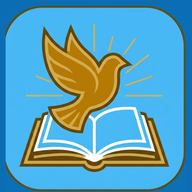
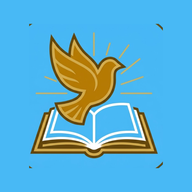
Icono final limpio; reproductor y navegacion fusionados en una sola barra (v19)

diff --git a/styles.css b/styles.css
@@ -398,7 +398,8 @@ body {
 /* ------------------------------ Tabbar -------------------------------- */
 .tabbar {
   position: fixed; left: 0; right: 0; bottom: 0; z-index: 40;
-  display: flex; background: var(--surface);
+  max-width: 760px; margin: 0 auto;
+  display: flex; align-items: center; background: var(--surface);
   border-top: 1px solid var(--line);
   padding-bottom: env(safe-area-inset-bottom);
 }
@@ -406,6 +407,7 @@ body {
   flex: 1; display: flex; flex-direction: column; align-items: center; gap: 3px;
   padding: 8px 4px 7px; color: var(--ink-faint); text-decoration: none;
   font-family: var(--sans); font-size: 0.68rem;
+  min-width: 0;
 }
 .tabbar .tab.active { color: var(--accent-ink); }
 .tabbar .tab.active::before {
@@ -413,6 +415,19 @@ body {
   background: var(--accent); border-radius: 0 0 3px 3px;
 }
 .tabbar .tab { position: relative; }
+
+/* Cuando el reproductor de autoscroll esta activo, comparte la misma fila:
+   las pestanas se comprimen a solo icono para dejarle sitio. */
+.tabbar:has(.autoscroll) .tab-label {
+  position: absolute; width: 1px; height: 1px; overflow: hidden; clip: rect(0 0 0 0);
+}
+.tabbar:has(.autoscroll) .tab { padding: 8px 2px 7px; }
+.tabbar .autoscroll {
+  flex: 0 0 auto;
+  display: flex; align-items: center; gap: 6px;
+  padding: 6px 0 6px 10px; margin-left: 4px;
+  border-left: 1px solid var(--line);
+}
 
 /* ---------------------------- Responsive ------------------------------ */
 @media (min-width: 760px) {
@@ -655,27 +670,18 @@ body {
 }
 .nci-ok:hover { filter: brightness(1.06); }
 
-/* Auto-scroll de lectura: ocupa el mismo sitio que la tabbar (una sola barra) */
-.autoscroll {
-  position: fixed; left: 0; right: 0; bottom: 0; z-index: 60;
-  padding-bottom: env(safe-area-inset-bottom);
-  max-width: 760px; margin: 0 auto;
-  display: flex; align-items: center; justify-content: space-between; gap: 10px;
-  padding: 8px 16px calc(8px + env(safe-area-inset-bottom));
-  background: var(--surface);
-  border-top: 1px solid var(--line);
-}
-body:has(.autoscroll) .tabbar { display: none; }
+/* Auto-scroll de lectura: vive dentro de la tabbar (ver regla .tabbar .autoscroll arriba) */
 .as-play {
-  width: 36px; height: 36px; border-radius: 50%; border: none; cursor: pointer;
-  background: var(--accent); color: var(--accent-ink); font-size: 0.85rem;
+  width: 30px; height: 30px; border-radius: 50%; border: none; cursor: pointer;
+  background: var(--accent); color: var(--accent-ink); font-size: 0.75rem;
   display: flex; align-items: center; justify-content: center;
   flex: none;
 }
-.as-speeds { display: flex; gap: 6px; flex: none; }
+.as-speeds { display: flex; gap: 4px; flex: none; }
 .as-chip {
-  padding: 6px 11px; border-radius: 999px; border: 1px solid var(--line);
-  background: var(--surface2); color: var(--ink); font-family: var(--sans); font-size: 0.75rem; cursor: pointer;
+  padding: 4px 8px; border-radius: 999px; border: 1px solid var(--line);
+  background: var(--surface2); color: var(--ink); font-family: var(--sans); font-size: 0.66rem; cursor: pointer;
+  white-space: nowrap;
 }
 .as-chip.active { background: var(--accent); border-color: var(--accent); color: var(--accent-ink); }
 

diff --git a/index.html b/index.html
@@ -122,25 +122,25 @@
 </main>
 
 <nav class="tabbar" id="tabbar" aria-label="Secciones">
-  <a href="#hoy" class="tab" data-tab="hoy">
+  <a href="#hoy" class="tab" data-tab="hoy" aria-label="Hoy">
     <svg viewBox="0 0 24 24" width="22" height="22"><path fill="currentColor" d="M6 2a2 2 0 0 0-2 2v16a2 2 0 0 0 2 2h12a2 2 0 0 0 2-2V8l-6-6H6zm7 1.5L18.5 9H13V3.5zM8 12h8v2H8v-2zm0 4h8v2H8v-2z"/></svg>
-    <span>Hoy</span>
+    <span class="tab-label">Hoy</span>
   </a>
-  <a href="#hora/visperas" class="tab" data-tab="visperas">
+  <a href="#hora/visperas" class="tab" data-tab="visperas" aria-label="Vísperas">
     <svg viewBox="0 0 24 24" width="22" height="22"><path fill="currentColor" d="M17.7 14.3A8 8 0 0 1 6.2 3.3a8 8 0 1 0 11.5 11z"/></svg>
-    <span>Vísperas</span>
+    <span class="tab-label">Vísperas</span>
   </a>
-  <a href="#biblia" class="tab" data-tab="biblia">
+  <a href="#biblia" class="tab" data-tab="biblia" aria-label="Biblia">
     <svg viewBox="0 0 24 24" width="22" height="22"><path fill="currentColor" d="M4 5a2 2 0 0 1 2-2h14v16H6a2 2 0 0 0-2 2V5zm4 4h8V7H8v2zm0 4h8v-2H8v2zm0 4h5v-2H8v2z"/></svg>
-    <span>Biblia</span>
+    <span class="tab-label">Biblia</span>
   </a>
-  <a href="#misal" class="tab" data-tab="lecturas">
+  <a href="#misal" class="tab" data-tab="lecturas" aria-label="Lecturas">
     <svg viewBox="0 0 24 24" width="22" height="22"><path fill="currentColor" d="M20 4h-4a4 4 0 0 0-4 4v12a3 3 0 0 0-3-3H4a2 2 0 0 1-2-2V6a2 2 0 0 1 2-2h16zM12 8a4 4 0 0 0-4-4H4v9h2V8a2 2 0 0 1 2-2h4V8zm6 6-2.5-1.5V20l3-1 3 1v-7.5L18 14z"/></svg>
-    <span>Lecturas</span>
+    <span class="tab-label">Lecturas</span>
   </a>
-  <a href="#acerca" class="tab" data-tab="acerca">
+  <a href="#acerca" class="tab" data-tab="acerca" aria-label="Info">
     <svg viewBox="0 0 24 24" width="22" height="22"><path fill="currentColor" d="M11 4h2v2h-2V4zm-1 16h2V8h-2v12zM12 2a10 10 0 1 0 0 20 10 10 0 0 0 0-20zm0 18a8 8 0 1 1 0-16 8 8 0 0 1 0 16z"/></svg>
-    <span>Info</span>
+    <span class="tab-label">Info</span>
   </a>
 </nav>
 

diff --git a/app.js b/app.js
@@ -59,6 +59,8 @@
   }
 
   async function route() {
+    const existingAs = document.querySelector('.autoscroll');
+    if (existingAs) existingAs.remove();
     const h = parseHash();
     if (h.startsWith('hora/')) return hourView(h.split('/')[1]);
     if (h.startsWith('biblia/libro/')) return bibliaBookView(h.split('/')[2]);
@@ -338,10 +340,10 @@
 
   /* ----------------------- Auto-scroll de lectura ----------------------- */
   const AS_SPEEDS = [
-    { k: 'Lento', v: 18 },
-    { k: 'Suave', v: 33 },
-    { k: 'Normal', v: 56 },
-    { k: 'Rápido', v: 88 }
+    { k: 'Lento', short: 'Lto', v: 18 },
+    { k: 'Suave', short: 'Sve', v: 33 },
+    { k: 'Normal', short: 'Nrm', v: 56 },
+    { k: 'Rápido', short: 'Rpd', v: 88 }
   ];
   const as = { raf: null, speed: 1, on: false, acc: 0 };
 
@@ -351,14 +353,14 @@
     const saved = parseInt(localStorage.getItem('liturgia.as.v1') || '1', 10);
     if (saved >= 0 && saved < AS_SPEEDS.length) as.speed = saved;
     let html = `<div class="autoscroll" id="autoscroll">
-      <button class="as-play" id="as-play" title="Reproducir / pausar">&#9654;</button>
+      <button class="as-play" id="as-play" title="Reproducir / pausar" aria-label="Reproducir o pausar el autoscroll">&#9654;</button>
       <div class="as-speeds">`;
     AS_SPEEDS.forEach((s, i) => {
-      html += `<button data-as="${i}" class="as-chip${i === as.speed ? ' active' : ''}">${s.k}</button>`;
+      html += `<button data-as="${i}" class="as-chip${i === as.speed ? ' active' : ''}" title="${s.k}" aria-label="Velocidad ${s.k}">${s.short}</button>`;
     });
     html += `</div></div>`;
-    const view = document.querySelector('#view');
-    if (view) view.insertAdjacentHTML('beforeend', html);
+    const tabbar = document.querySelector('#tabbar');
+    if (tabbar) tabbar.insertAdjacentHTML('beforeend', html);
     wireAs();
   }
 

diff --git a/sw.js b/sw.js
@@ -3,7 +3,7 @@
    Precarga la app y la librería de rezo (una sola vez).
    ============================================================ */
 
-const CACHE = 'liturgia-horas-v17';
+const CACHE = 'liturgia-horas-v19';
 const CORE = [
   './',
   './index.html',
